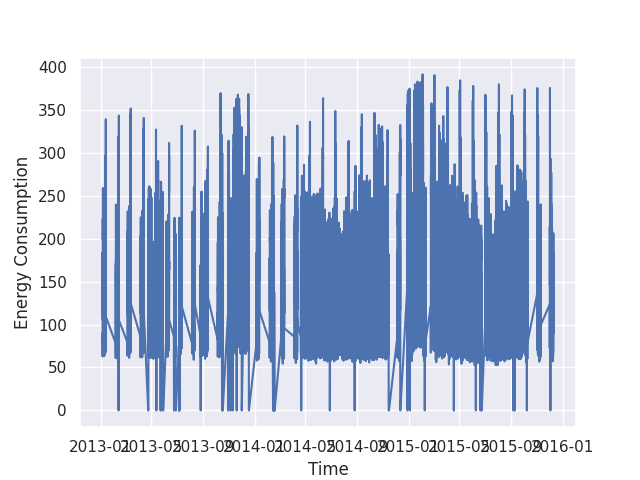
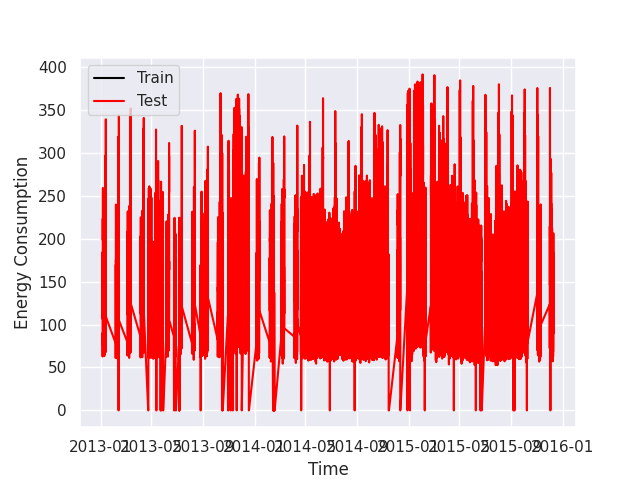
your commit message

Changed region(s): [[0.1562, 0.125, 0.875, 0.875]]

diff --git a/main.py b/main.py
@@ -3,6 +3,9 @@ import pandas as pd
 import sys
 import matplotlib.pyplot as plt
 import seaborn as sns
+from sklearn.naive_bayes import GaussianNB
+import numpy as np
+
 
 # Attempting to read the data file
 try:
@@ -41,8 +44,55 @@ def test(df, filtered_days):
   
   print('Total empty cells:', filtered_days.isnull().sum().sum(), "\n\n")
   print(filtered_days.shape)
+
+def train_test_split(filtered_days):
+  # Splitting the data into training and testing sets
+  train = filtered_days[filtered_days['Time'] <= pd.to_datetime('2008-09-23', format='%Y-%m-%d')]
+  test = filtered_days[filtered_days['Time'] > pd.to_datetime('2008-09-23', format='%Y-%m-%d')]
+
+  return train, test
   
+def plot_creation(train, test):
+  sns.set_theme()
+  plt.ylabel('Energy Consumption')
+  plt.xlabel('Time')
+    
+  train.set_index('Time', inplace=True)
+  test.set_index('Time', inplace=True)
+    
+  plt.plot(train.index, train['Total_feeder'], label='Train', color='black')
+  plt.plot(test.index, test['Total_feeder'], label='Test', color='red')
+  plt.legend()
+  plt.savefig('/workspaces/Energy-Consumptions/assets/energy_consumption_plot.png')
   
+def naive_bayes(train):
+    model = GaussianNB()
+
+    # Feature Engineering
+    train['Hour'] = train['Time'].dt.hour
+    train['DayOfWeek'] = train['Time'].dt.dayofweek
+    train['Prev_Consumption'] = train['Total_feeder'].shift(1)
+
+    # Handle missing values by filling them with the previous value
+    train.bfill(inplace=True)
+
+    # Features and target
+    train_x = train[['Hour', 'DayOfWeek', 'Prev_Consumption']].values
+    train_y = train['Total_feeder'].values
+
+    # Check if training data is empty
+    if len(train_x) == 0 or len(train_y) == 0:
+        print("Error: No valid training data available.")
+        sys.exit()
+
+    # Train the model
+    model.fit(train_x, train_y)
+    return model
+
+
+
+
+
 def main(df):
   # Converting the string into a datetime format
   df = time_period(df)
@@ -55,19 +105,12 @@ def main(df):
 
   print(filtered_days.sample(25))
 
-  sns.set_theme()
-  plt.ylabel('Energy Consumption')
-  plt.xlabel('Time')
-  
-  filtered_days.set_index('Time', inplace=True)
-  plt.plot(filtered_days.index, filtered_days['Total_feeder'])
-  plt.savefig('/workspaces/Energy-Consumptions/energy_consumption_plot.png')
+
+  train, test = train_test_split(filtered_days)
+
+  naive_bayes(train)
+
+  #plot_creation(train, test)
 
 main(df)
 
-def train_test_split(filtered_days):
-  # Splitting the data into training and testing sets
-  train = filtered_days[:int(0.8*(len(filtered_days)))]
-  test = filtered_days[int(0.8*(len(filtered_days))):]
-
-  return train, test
